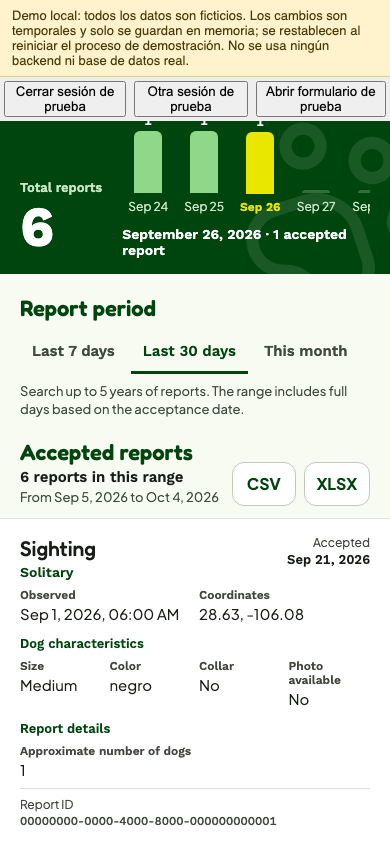
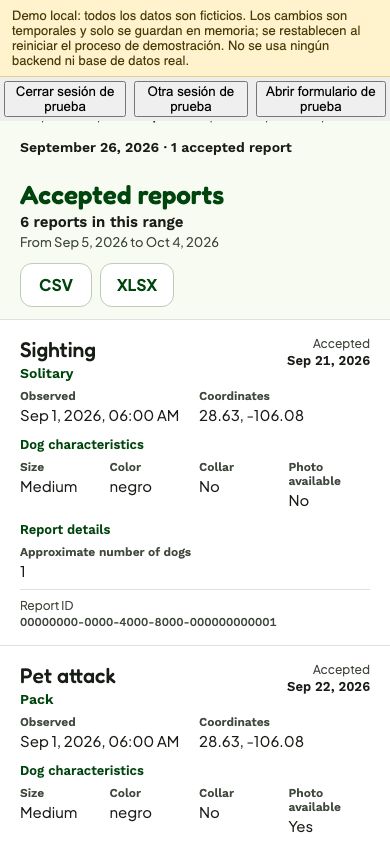
style(design): TD-134 Asociación: encabezado solo con total, gráfica en el cuerpo y paginación de 5
El encabezado queda con título, nombre y total; la gráfica pasa a una sección clara tras el periodo; en pantalla ancha toda la página se desplaza y la tabla tiene altura fija. La lista móvil muestra cinco reportes por página.

diff --git a/screens/associationDashboardScreen.js b/screens/associationDashboardScreen.js
@@ -12,7 +12,7 @@ import { useAssociationReports } from '../hooks/useAssociationReports.js';
 import { saveAssociationCsv, saveAssociationXlsx } from '../services/associationExport';
 import { createAssociationXlsx } from '../models/associationWorkbook.js';
 import AssociationDatePicker from '../components/associationDatePicker.js';
-import AssociationSummaryCard from '../components/associationSummaryCard.js';
+import AssociationSummaryCard, { AssociationTotal } from '../components/associationSummaryCard.js';
 import AssociationReportCard from '../components/associationReportCard.js';
 import { buildAssociationSummary } from '../models/associationSummary.js';
 import { associationDisplayValues, presentAssociationReport } from '../presenters/associationDisplay.js';
@@ -20,7 +20,7 @@ import { AppButton, Icon, Pager, StateView } from '../components/ui/index.js';
 import { colors, fontFamily, layout, radius, spacing, type } from '../theme/index.js';
 
 /** Reports shown per page in the mobile list. */
-const PAGE_SIZE = 10;
+const PAGE_SIZE = 5;
 /** Table column widths in pixels, in `ASSOCIATION_REPORT_COLUMNS` order. */
 const WIDTHS = [210, 190, 190, 175, 130, 290, 150, 100, 105, 120, 120, 105];
 const TABLE_WIDTH = WIDTHS.reduce((sum, width) => sum + width, 0);
@@ -133,7 +133,7 @@ export default function AssociationDashboardScreen({ accessToken, displayName, o
           <Icon name="logout" size={22} color={colors.onPrimary} />
         </Pressable>
       </View>
-      {summary ? <AssociationSummaryCard key={`${fromDay}:${toDay}`} summary={summary} wide={wide} /> : null}
+      {summary ? <AssociationTotal total={summary.total} /> : null}
     </View>
   </View>;
 
@@ -174,6 +174,8 @@ export default function AssociationDashboardScreen({ accessToken, displayName, o
         locale={i18n.language} previousMonthLabel={t('associationDashboard.previousMonth')} nextMonthLabel={t('associationDashboard.nextMonth')}
         cancelLabel={t('common.cancel')} onSelect={selectCustomDate} onClose={() => setCalendarField(null)} />
 
+      {summary ? <View style={styles.chartSection}><AssociationSummaryCard key={`${fromDay}:${toDay}`} summary={summary} /></View> : null}
+
       <View style={styles.resultsBar} onLayout={(event) => { resultsY.current = event.nativeEvent.layout.y; }}>
         <View style={styles.resultsText}>
           <Text accessibilityRole="header" style={styles.resultsTitle}>{t('associationDashboard.results')}</Text>
@@ -210,7 +212,7 @@ export default function AssociationDashboardScreen({ accessToken, displayName, o
   </ScrollView> : null;
 
   return <SafeAreaView style={styles.safeArea} edges={['top', 'left', 'right']}>
-    {wide ? <View style={styles.wideRoot}>{hero}<View style={styles.page}>{controls}{table}</View></View>
+    {wide ? <ScrollView style={styles.wideRoot} contentContainerStyle={styles.wideContent}>{hero}<View style={styles.page}>{controls}{table}</View></ScrollView>
       : <FlatList ref={listRef} style={styles.mobileList} contentContainerStyle={styles.mobileContent}
         data={showReports ? pageRows : []} keyExtractor={(item) => item.id}
         ListFooterComponent={showReports ? pager : null}
@@ -221,17 +223,17 @@ export default function AssociationDashboardScreen({ accessToken, displayName, o
 
 const styles = StyleSheet.create({
   safeArea: { flex: 1, backgroundColor: colors.primary },
-  wideRoot: { flex: 1, backgroundColor: colors.background },
-  page: { flex: 1, width: '100%', maxWidth: 1440, alignSelf: 'center', padding: layout.margin },
+  wideRoot: { flex: 1, backgroundColor: colors.background }, wideContent: { flexGrow: 1 },
+  page: { width: '100%', maxWidth: 1440, alignSelf: 'center', padding: layout.margin },
   mobileList: { flex: 1, backgroundColor: colors.background },
   mobileContent: { width: '100%', maxWidth: 960, alignSelf: 'center', paddingBottom: spacing.xxxl },
   controls: { paddingHorizontal: layout.margin, paddingTop: spacing.xxl },
   hero: { backgroundColor: colors.primary, overflow: 'hidden' },
-  bigPaw: { position: 'absolute', right: -48, top: 96, opacity: 0.1, transform: [{ rotate: '-18deg' }] },
+  bigPaw: { position: 'absolute', right: -48, top: 70, opacity: 0.1, transform: [{ rotate: '-18deg' }] },
   heroInner: { width: '100%', maxWidth: 1440, alignSelf: 'center', paddingHorizontal: layout.margin, paddingTop: spacing.lg, paddingBottom: spacing.xl },
   titleRow: { flexDirection: 'row', alignItems: 'flex-start', justifyContent: 'space-between', gap: spacing.md },
   heading: { flex: 1, gap: spacing.xs },
-  title: { fontFamily: fontFamily.display, fontSize: 32, lineHeight: 40, letterSpacing: -0.3, color: colors.onPrimary },
+  title: { fontFamily: fontFamily.display, fontSize: 30, lineHeight: 38, letterSpacing: -0.3, color: colors.onPrimary },
   name: { fontFamily: fontFamily.label, fontSize: 14, color: colors.onForest },
   logout: { width: layout.minTouch, height: layout.minTouch, borderRadius: 12, alignItems: 'center', justifyContent: 'center', borderWidth: 1, borderColor: 'rgba(201,230,196,0.45)' },
   pressed: { opacity: 0.7 },
@@ -246,6 +248,7 @@ const styles = StyleSheet.create({
   dateField: { flex: 1, minHeight: 56, borderWidth: 1, borderColor: colors.outline, borderRadius: radius.sm, paddingHorizontal: spacing.md, paddingVertical: spacing.sm, backgroundColor: colors.surface, justifyContent: 'center' },
   dateLabel: { fontFamily: fontFamily.label, fontSize: 12, color: colors.inkMuted }, dateValue: { fontFamily: fontFamily.labelMedium, fontVariant: ['tabular-nums'], fontSize: 15, color: colors.ink },
   search: { borderRadius: 12 },
+  chartSection: { marginTop: spacing.xxl },
   pager: { paddingVertical: spacing.xl, borderTopWidth: 1, borderTopColor: colors.border, backgroundColor: colors.surface },
   fieldError: { ...type.caption, fontSize: 13, color: colors.danger },
   filterHint: { ...type.caption, color: colors.inkMuted },
@@ -258,7 +261,7 @@ const styles = StyleSheet.create({
   exportButton: { minWidth: 72, borderRadius: 12 }, disabled: { opacity: 0.45 },
   status: { alignItems: 'center', paddingVertical: spacing.xxl },
   error: { ...type.caption, fontSize: 14, color: colors.danger, marginBottom: spacing.md },
-  tableScroll: { flex: 1, backgroundColor: colors.surface, borderRadius: radius.lg, borderWidth: 1, borderColor: colors.border },
+  tableScroll: { height: 560, backgroundColor: colors.surface, borderRadius: radius.lg, borderWidth: 1, borderColor: colors.border },
   tableScrollContent: { flexGrow: 1 }, table: { flex: 1 }, list: { flex: 1 },
   headerRow: { flexDirection: 'row', backgroundColor: colors.primarySoft, borderBottomWidth: 1, borderBottomColor: colors.outlineSoft },
   headerCell: { fontFamily: fontFamily.label, color: colors.primary },

diff --git a/components/associationSummaryCard.js b/components/associationSummaryCard.js
@@ -1,7 +1,7 @@
 /**
  * @module components/associationSummaryCard
- * Presentational summary for the association dashboard header (dark, on forest green): total count and a
- * scrollable bar chart by day or month with a selectable bucket.
+ * Presentational summary for the association dashboard: `AssociationTotal` (big number for the green header)
+ * and the default export, a scrollable bar chart by day or month with a selectable bucket on a light surface.
  */
 import { useRef, useState } from 'react';
 import { useTranslation } from 'react-i18next';
@@ -13,12 +13,21 @@ function bucketDate(key, grouping) {
   return new Date(`${key}${grouping === 'month' ? '-01' : ''}T12:00:00`);
 }
 
+/** Total count for the header (on forest green); keeps the `association-total` test id. */
+export function AssociationTotal({ total }) {
+  const { t, i18n } = useTranslation();
+  return <View style={styles.totalRow}>
+    <Text testID="association-total" style={styles.totalNumber}>{total.toLocaleString(i18n.language)}</Text>
+    <Text style={styles.totalLabel}>{t('associationDashboard.summary.total')}</Text>
+  </View>;
+}
+
 /**
  * @param {object} props
  * @param {ReturnType<typeof import('../models/associationSummary.js').buildAssociationSummary>} props.summary
  * @returns {JSX.Element}
  */
-export default function AssociationSummaryCard({ summary, wide = false }) {
+export default function AssociationSummaryCard({ summary }) {
   const { t, i18n } = useTranslation();
   const initial = [...summary.buckets].reverse().find((bucket) => bucket.count > 0) ?? summary.buckets[summary.buckets.length - 1];
   const [selectedKey, setSelectedKey] = useState(initial?.key ?? null);
@@ -27,18 +36,11 @@ export default function AssociationSummaryCard({ summary, wide = false }) {
   const highest = Math.max(1, ...summary.buckets.map((bucket) => bucket.count));
   const initialIndex = summary.buckets.findIndex((bucket) => bucket.key === initial?.key);
 
-  return <View style={[styles.summary, wide && styles.summaryWide]}>
-    <View style={styles.heading}>
-      <View style={styles.totalBlock}>
-        <Text style={styles.totalLabel}>{t('associationDashboard.summary.total')}</Text>
-        <Text testID="association-total" style={styles.totalNumber}>{summary.total.toLocaleString(i18n.language)}</Text>
-      </View>
+  return <View style={styles.summary}>
+    <View style={styles.chartHeading}>
+      <Text accessibilityRole="header" style={styles.chartTitle}>{t('associationDashboard.summary.byDate')}</Text>
+      <Text style={styles.chartSubtitle}>{t(`associationDashboard.summary.${summary.grouping}`)}</Text>
     </View>
-    <View style={styles.chartBlock}>
-      <View style={styles.chartHeading}>
-        <Text style={styles.chartTitle}>{t('associationDashboard.summary.byDate')}</Text>
-        <Text style={styles.chartSubtitle}>{t(`associationDashboard.summary.${summary.grouping}`)}</Text>
-      </View>
 
     {summary.total > 0 ? <ScrollView ref={chartRef} horizontal style={styles.chartScroll} contentContainerStyle={styles.chartContent}
       onContentSizeChange={() => chartRef.current?.scrollTo({ x: Math.max(0, (initialIndex - 2) * 56), y: 0, animated: false })}>
@@ -67,31 +69,27 @@ export default function AssociationSummaryCard({ summary, wide = false }) {
         ? { day: 'numeric', month: 'long', year: 'numeric' } : { month: 'long', year: 'numeric' })}
       {' · '}{t('associationDashboard.summary.bucketCount', { count: selected.count })}
     </Text> : null}
-    </View>
   </View>;
 }
 
 const styles = StyleSheet.create({
-  summary: { marginTop: spacing.lg },
-  summaryWide: { flexDirection: 'row', alignItems: 'flex-end', gap: spacing.xxxl },
-  chartBlock: { flex: 1, minWidth: 0 },
-  heading: { gap: spacing.md },
-  totalBlock: { minWidth: 110 },
-  totalLabel: { fontFamily: fontFamily.label, fontSize: 14, color: colors.onForest },
+  totalRow: { flexDirection: 'row', alignItems: 'baseline', gap: spacing.md, flexWrap: 'wrap' },
   totalNumber: { fontFamily: fontFamily.number, fontVariant: ['tabular-nums'], fontSize: 64, lineHeight: 70, color: colors.onPrimary },
-  chartHeading: { flexDirection: 'row', alignItems: 'baseline', gap: spacing.sm },
-  chartTitle: { fontFamily: fontFamily.label, fontSize: 14, color: colors.onPrimary },
-  chartSubtitle: { fontFamily: fontFamily.regular, fontSize: 13, color: colors.onForest },
-  chartScroll: { marginTop: spacing.md },
+  totalLabel: { fontFamily: fontFamily.label, fontSize: 16, color: colors.onForest },
+  summary: { gap: spacing.sm },
+  chartHeading: { gap: 2 },
+  chartTitle: { fontFamily: fontFamily.display, fontSize: 22, lineHeight: 28, color: colors.primary },
+  chartSubtitle: { fontFamily: fontFamily.regular, fontSize: 13, color: colors.inkMuted },
+  chartScroll: { marginTop: spacing.sm },
   chartContent: { alignItems: 'flex-end', paddingRight: 4 },
   barItem: { width: 52, alignItems: 'center', marginRight: 4 },
   barTrack: { height: 112, width: 38, justifyContent: 'flex-end', alignItems: 'center' },
-  barCount: { fontFamily: fontFamily.label, fontVariant: ['tabular-nums'], fontSize: 12, color: colors.onPrimary, marginBottom: 3 },
+  barCount: { fontFamily: fontFamily.label, fontVariant: ['tabular-nums'], fontSize: 12, color: colors.ink, marginBottom: 3 },
   bar: { width: 28, borderTopLeftRadius: 6, borderTopRightRadius: 6 },
-  selectedBar: { backgroundColor: colors.signal },
-  filledBar: { backgroundColor: colors.primaryFixed },
-  emptyBar: { backgroundColor: 'rgba(201,230,196,0.25)' },
-  barLabel: { fontFamily: fontFamily.regular, fontSize: 12, color: colors.onForest, marginTop: 6, textAlign: 'center' },
-  selectedLabel: { fontFamily: fontFamily.label, color: colors.signal },
-  selectedDetail: { fontFamily: fontFamily.label, fontSize: 14, color: colors.onPrimary, marginTop: spacing.md },
+  selectedBar: { backgroundColor: colors.primary },
+  filledBar: { backgroundColor: '#8fcf8a' },
+  emptyBar: { backgroundColor: colors.surfaceHigh },
+  barLabel: { fontFamily: fontFamily.regular, fontSize: 12, color: colors.inkMuted, marginTop: 6, textAlign: 'center' },
+  selectedLabel: { fontFamily: fontFamily.label, color: colors.primary },
+  selectedDetail: { fontFamily: fontFamily.label, fontSize: 14, color: colors.ink, marginTop: spacing.sm },
 });

diff --git a/tests/ui/associationPagination.spec.js b/tests/ui/associationPagination.spec.js
@@ -19,17 +19,18 @@ async function open(page, count) {
   await expect(page.getByText(`${count} reportes en este rango`)).toBeVisible();
 }
 
-test('mobile list shows ten reports per page and the total stays complete', async ({ page }) => {
+test('mobile list shows five reports per page and the total stays complete', async ({ page }) => {
   await open(page, 25);
   await expect(page.getByTestId('association-total')).toHaveText('25');
-  await expect(page.getByTestId('association-report-card')).toHaveCount(10);
-  await expect(page.getByText('Página 1 de 3', { exact: true })).toBeVisible();
+  await expect(page.getByTestId('association-report-card')).toHaveCount(5);
+  await expect(page.getByText('Página 1 de 5', { exact: true })).toBeVisible();
   await expect(page.getByRole('button', { name: 'Anterior', exact: true })).toBeDisabled();
   await page.getByRole('button', { name: 'Siguiente', exact: true }).click();
-  await expect(page.getByText('Página 2 de 3', { exact: true })).toBeVisible();
-  await expect(page.getByText(row(11).id)).toBeAttached();
+  await expect(page.getByText('Página 2 de 5', { exact: true })).toBeVisible();
+  await expect(page.getByText(row(6).id)).toBeAttached();
   await expect(page.getByText(row(1).id)).toHaveCount(0);
-  await page.getByRole('button', { name: 'Siguiente', exact: true }).click();
+  for (let i = 0; i < 3; i++) await page.getByRole('button', { name: 'Siguiente', exact: true }).click();
+  await expect(page.getByText('Página 5 de 5', { exact: true })).toBeVisible();
   await expect(page.getByTestId('association-report-card')).toHaveCount(5);
   await expect(page.getByRole('button', { name: 'Siguiente', exact: true })).toBeDisabled();
 });
